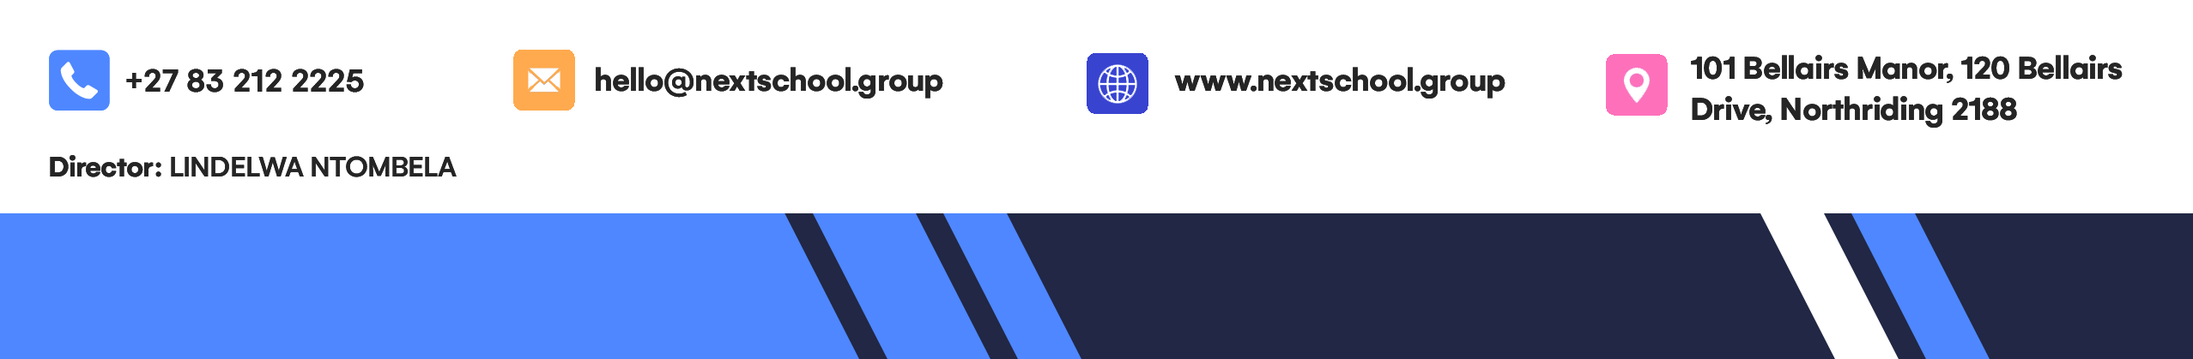
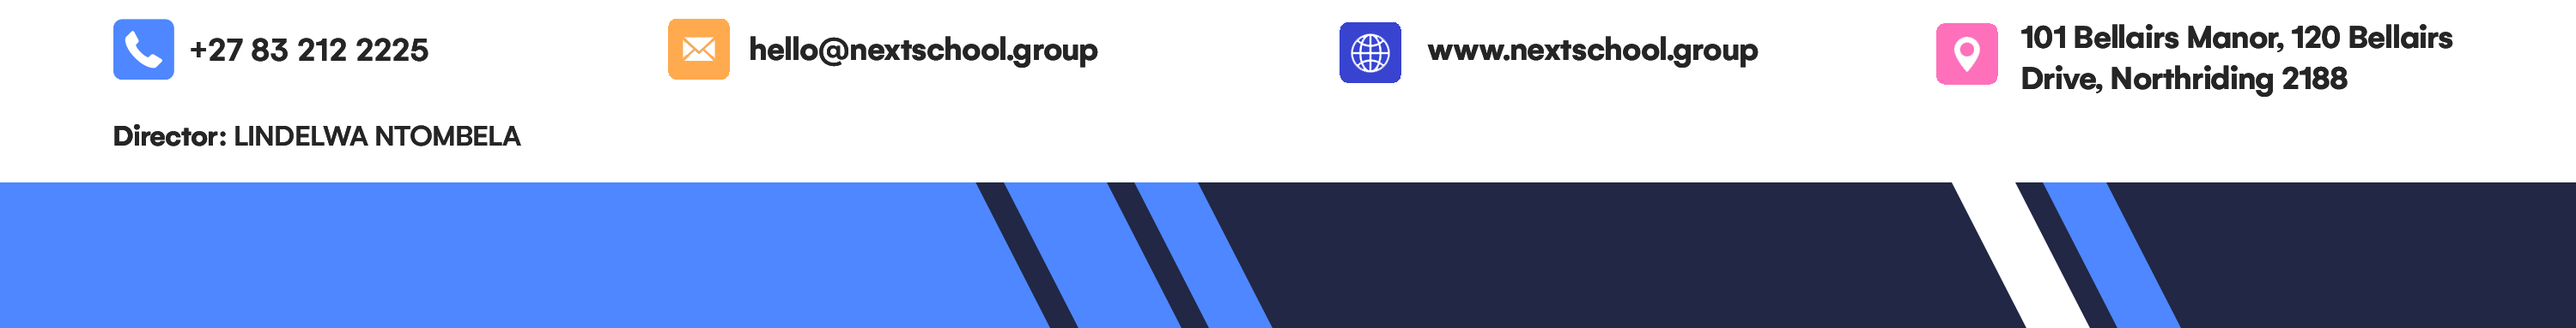
Header and Footer Image changed in monthly-subscription-bill

diff --git a/monthly-subscription-bill/index.html b/monthly-subscription-bill/index.html
@@ -147,8 +147,7 @@
                 <tr>
                   <th class="ts-head">Contract</th>
                   <td>
-                    No fixed or no permanent contract. Termination notice
-                    required.
+                    No contract, cancel anytime. Termination notice required.
                   </td>
                 </tr>
                 <tr>
@@ -203,8 +202,8 @@
                 Single Mobile App on all 3 stores
                 <ul>
                   <li>Apple App Store</li>
-                  <li>and Google Play Store</li>
                   <li>Huawei Gallery</li>
+                  <li>and Google Play Store</li>
                 </ul>
               </li>
             </ul>
@@ -340,7 +339,7 @@
         </tr>
         <tr>
           <td>Vodacom, MTN, Cell C & Telkom</td>
-          <td><span style="color: blue">R 0.40</span></td>
+          <td><span style="color: blue">R 0.35</span></td>
         </tr>
         <tr>
           <td colspan="3">
@@ -350,7 +349,7 @@
                 exceed the character limit, the message will be concatenated but
                 the amount of credits used will be charged.
               </li>
-              <li>Normal SMS = 160 characters = 1 credit = R 0.32</li>
+              <li>Normal SMS = 160 characters = 1 credit = R 0.35</li>
               <li>
                 Long SMS = greater than 160 characters. This will be in
                 multiples of 150 characters per credit

diff --git a/monthly-subscription-bill/style.css b/monthly-subscription-bill/style.css
@@ -26,7 +26,7 @@ body {
 
 header img {
   display: block;
-  width: 90%;
+  width: 100%;
   margin: auto;
 }
 
@@ -34,7 +34,7 @@ header img {
 
 footer img {
   display: block;
-  width: 90%;
+  width: 100%;
   margin: auto;
 }
 
